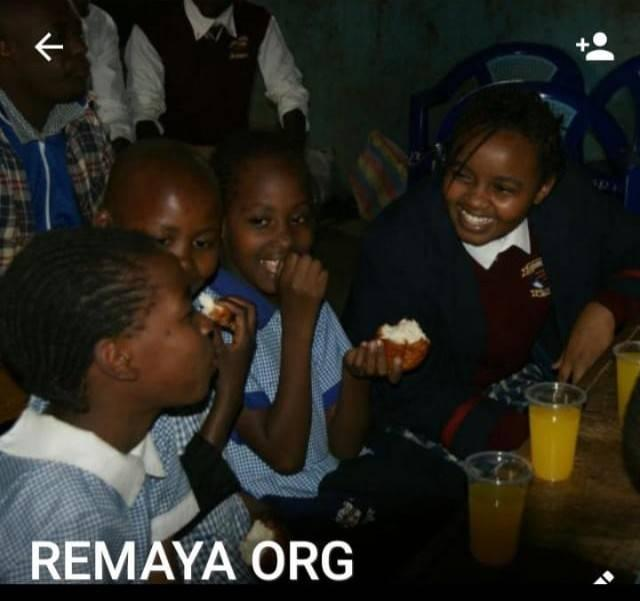
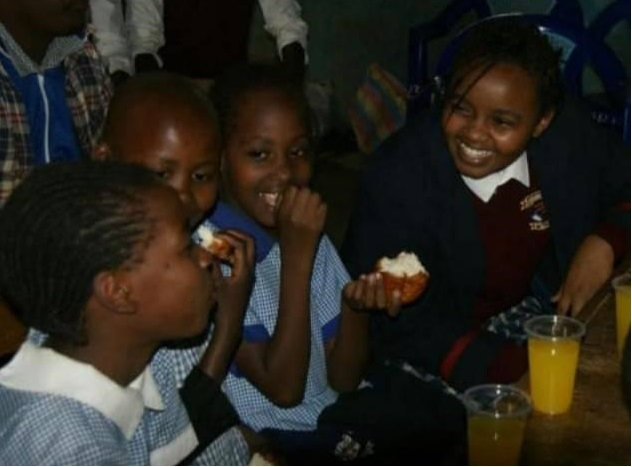
created a nav bar and added a hero image

diff --git a/index.html b/index.html
@@ -7,18 +7,30 @@
     <link rel="stylesheet" href="app.css">
 </head>
 <body>
+    <!--nav bar-->
+    <nav>
+        <ul class="navbar">
+            <li><img src="Images/logo.jpg" alt="logo" id="logo"></li>
+            <li><a href="#hero">Home</a></li>
+            <li><a href="#about">About Us</a></li>
+            <li><a href="#projects">Projects</a></li>
+            <li><a href="#mission-vision">Mission and Vision</a></li>
+            <li><a href="#contact">Contact Us</a></li>
+        </ul>
+    </nav>
+    
+    <hr>
     <!-- Hero Section -->
-    <section class="hero">
+    <section class="hero" id="hero">
         <div class="hero-content">
-            <h1>Welcome to Our NGO</h1>
-            <p>Join us in making the world a better place.</p>
-            <!-- You can add image here -->
-            <!--<img src="your-image.jpg" alt="Hero Image">-->
+            <h1>ReMaya Organization</h1><br>
+            <p id="hero-par">Giving someone a reasion to smile.</p>
         </div>
+        <img src="Images/image1.jpg" alt="hero img" id="hero-image">   
     </section>
 
     <!-- About Us Section -->
-    <section class="about-us">
+    <section class="about-us" id="about">
         <div class="container">
             <h2>About Us</h2>
             <p>Some content about the NGO...</p>
@@ -26,7 +38,7 @@
     </section>
 
     <!-- Projects Section -->
-    <section class="projects">
+    <section class="projects" id="projects">
         <div class="container">
             <h2>Projects</h2>
             <p>Information about ongoing projects...</p>
@@ -34,7 +46,7 @@
     </section>
 
     <!-- Mission and Vision Section -->
-    <section class="mission-vision">
+    <section class="mission-vision" id="mission-vision">
         <div class="container">
             <h2>Mission and Vision</h2>
             <p>Our mission and vision statement...</p>
@@ -42,7 +54,7 @@
     </section>
 
     <!-- Contact Us Section -->
-    <section class="contact">
+    <section class="contact" id="contact>
         <div class="container">
             <h2>Contact Us</h2>
             <p>Contact information...</p>

diff --git a/app.css b/app.css
@@ -9,6 +9,62 @@ body {
     font-family: Arial, sans-serif;
 }
 
+#logo{
+    width: 80px;
+    height: 80px;
+    position: absolute;
+    top: 0px;
+    left: 5px;
+    border-radius: 50px;
+}
+
+
+/* Navigation Bar */
+nav {
+    background-color: #333;
+    padding: 10px 0;
+    height: 80px;
+    width: 100%;
+    position: fixed;
+    top: 0px;
+}
+
+.navbar {
+    list-style-type: none;
+    align-items: baseline;
+    display: flex; /* Make navbar flex container */
+    justify-content: center; /* Align items to the start */
+}
+
+.navbar li {
+    
+}
+
+.navbar li a {
+    color: #fff;
+    text-decoration: none;
+    padding: 10px 20px;
+}
+
+/* Responsive Navigation */
+@media screen and (max-width: 768px) {
+    .navbar {
+        display: block;
+        text-align: center;
+    }
+    
+    .navbar li {
+        display: block;
+        margin-bottom: 10px;
+    }
+    
+    .navbar li a {
+        display: block;
+        padding: 10px 0;
+    }
+}
+
+
 .container {
     max-width: 1200px;
     margin: 0 auto;
@@ -17,9 +73,13 @@ body {
 
 /* Hero Section */
 .hero {
+    display: flex;
+    flex-direction: row;
+    justify-content: center;
     background-color: #f0f0f0;
     text-align: center;
     padding: 100px 0;
+    gap: 10px;
 }
 
 .hero-content h1 {
@@ -27,10 +87,24 @@ body {
     margin-bottom: 20px;
 }
 
+.hero-content{
+    
+    height: 600px;
+}
+
 .hero-content p {
     font-size: 18px;
 }
 
+#hero-image{
+    width: 700px;
+    height: 470px;
+    border-radius: 30px;
+}
+
+#hero-par{
+    
+}
 /* About Us Section */
 .about-us {
     background-color: #fff;
